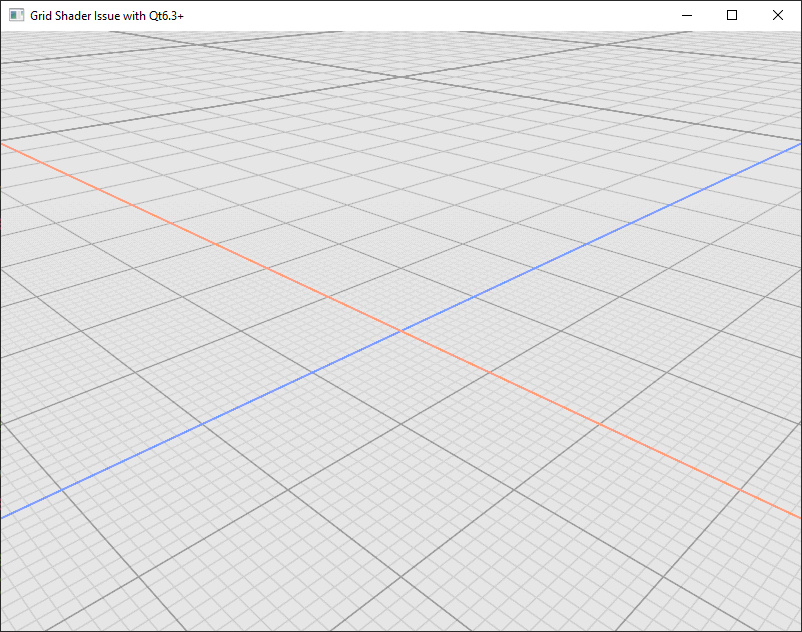
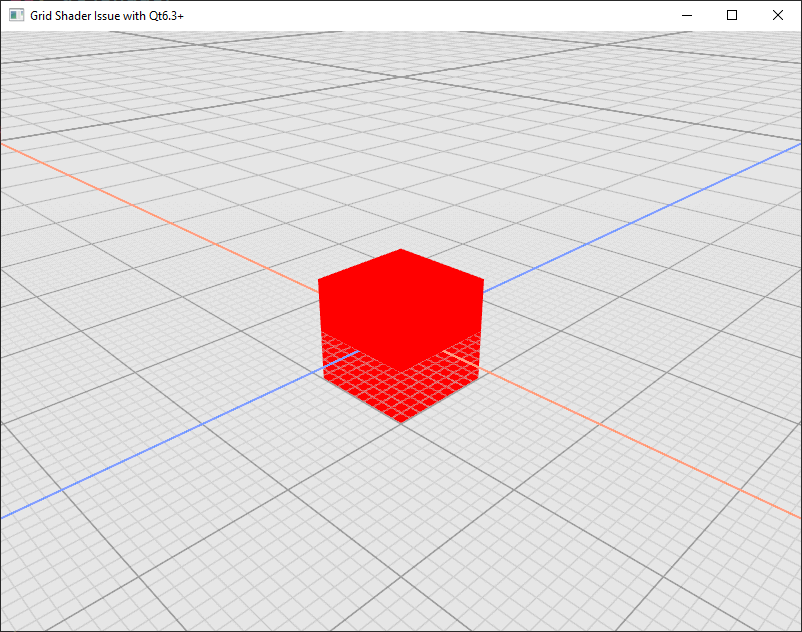
Add a basic shader

Changed region(s): [[0.3741, 0.3908, 0.6234, 0.6614]]

diff --git a/main.qml b/main.qml
@@ -68,6 +68,58 @@ Window {
                 intermediateGridColor: "#353535"
                 biggestGridColor: "#373737"
             }
+
+            Entity {
+                id: test
+                components: [mesh, debugMaterial]
+
+                CuboidMesh {
+                    id: mesh
+                }
+
+                Material {
+                    id: debugMaterial
+
+                    effect: Effect {
+                        // OpenGL 4.5
+                        property string vertexGL4: "qrc:/Resources/Shaders/SimpleShader/simple.vert"
+                        property string fragmentGL4: "qrc:/Resources/Shaders/SimpleShader/simple.frag"
+
+                        FilterKey {
+                            id: forward
+                            name: "renderingStyle"
+                            value: "forward"
+                        }
+
+                        ShaderProgram {
+                            id: gl4Shader
+                            vertexShaderCode: loadSource(parent.vertexGL4)
+                            fragmentShaderCode: loadSource(parent.fragmentGL4)
+                        }
+
+                        techniques: [
+                            // OpenGL 4.6
+                            Technique {
+                                filterKeys: [forward]
+                                graphicsApiFilter {
+                                    api: GraphicsApiFilter.OpenGL
+                                    profile: GraphicsApiFilter.CoreProfile
+                                    majorVersion: 4
+                                    minorVersion: 6
+                                }
+
+                                renderPasses: RenderPass {
+                                    shaderProgram: gl4Shader
+                                    filterKeys: FilterKey {
+                                        name: "renderingStyle"
+                                        value: true
+                                    }
+                                }
+                            }
+                        ]
+                    }
+                }
+            }
         }
     }
 }
